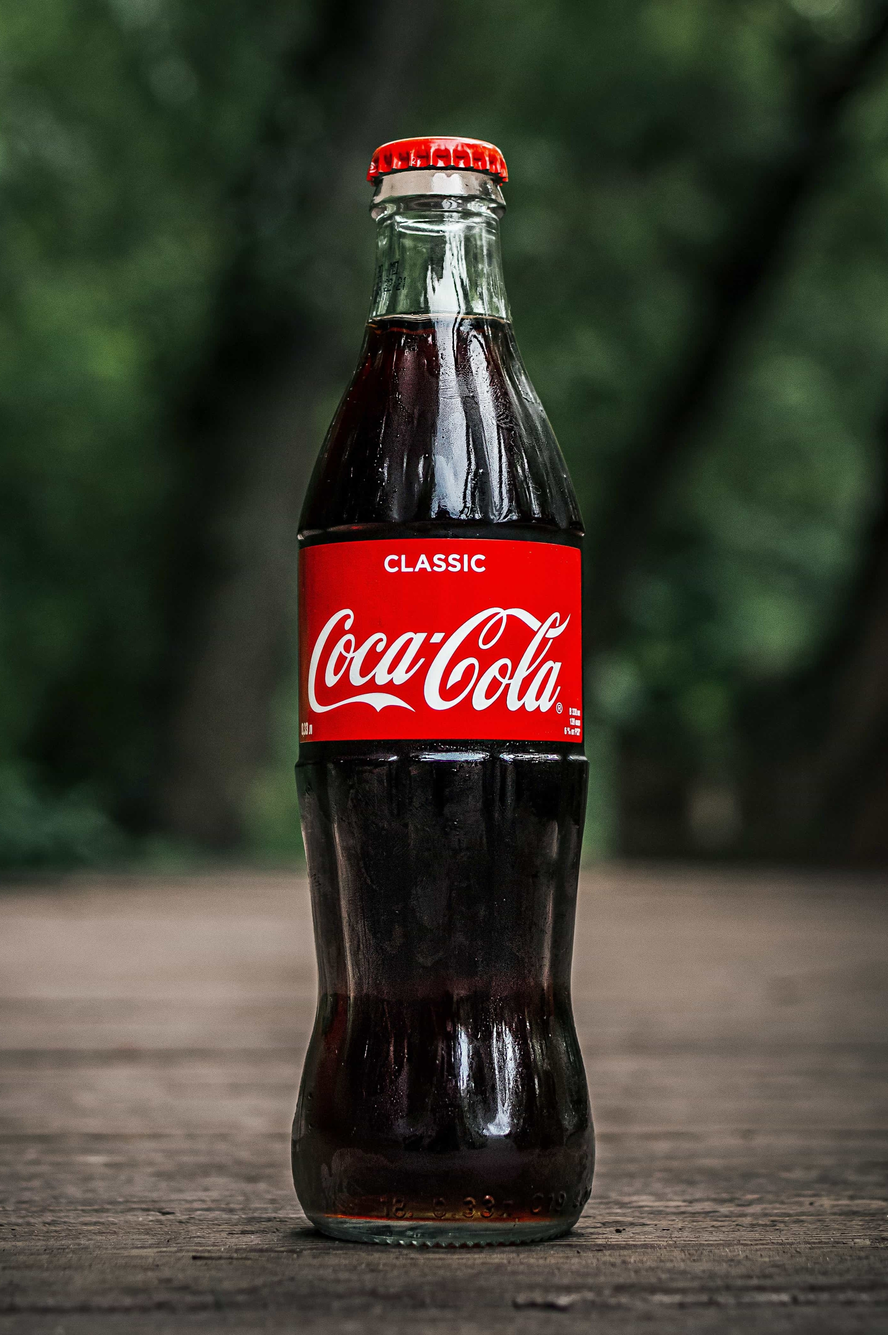
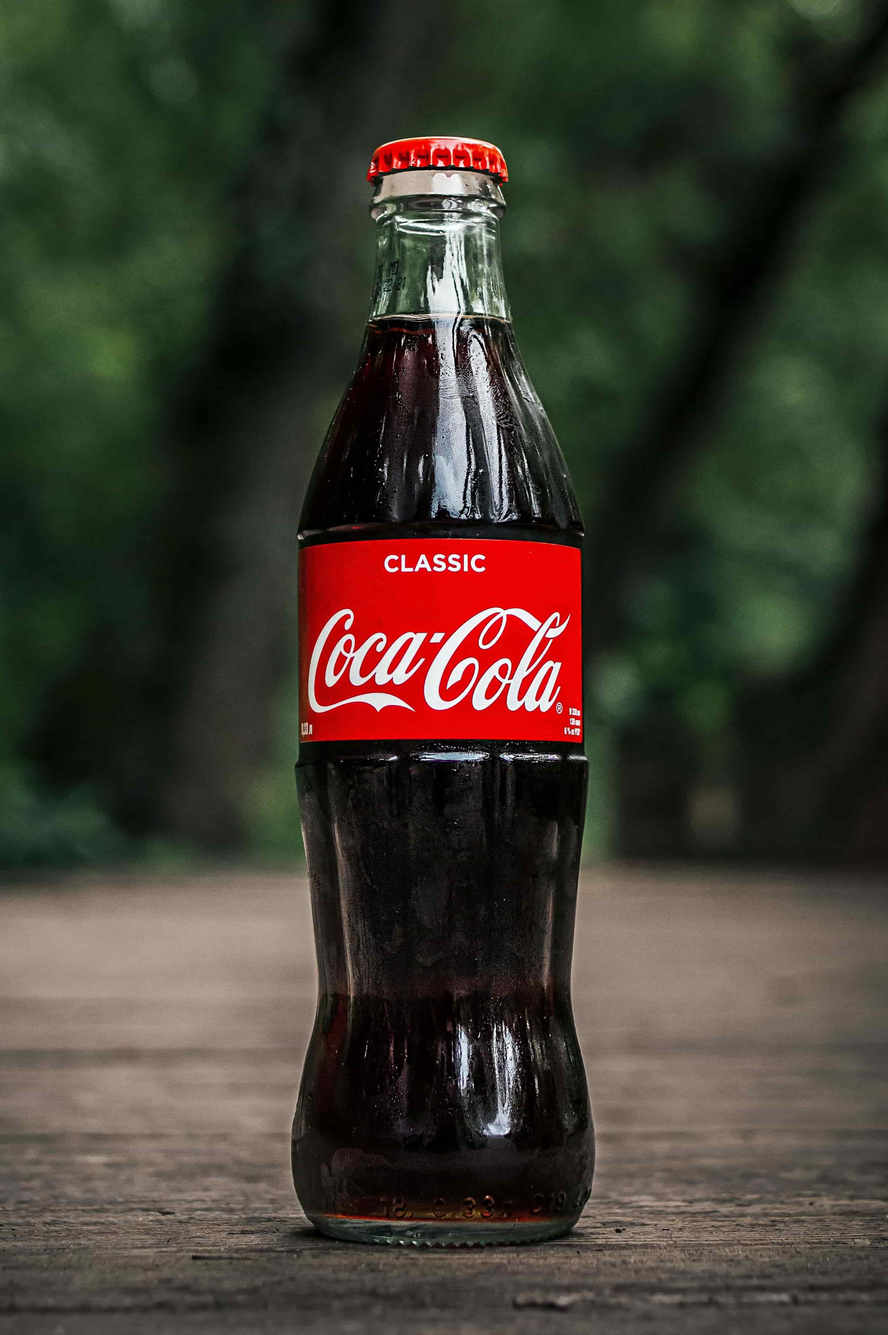
Se optimizaron aun mas las imagenes

Changed region(s): [[0.4977, 0.2494, 0.591, 0.3741], [0.5288, 0.7794, 0.591, 0.8417]]

diff --git a/index.html b/index.html
@@ -128,7 +128,7 @@
 
 
                         <img class="img-fluid img-thumbnail" style="max-height: 300px;"
-                            src="img/plate-basil-cherry-gourmet-menu.jpg" alt="">
+                            src="img/plate-basil-cherry-gourmet-menu-min.jpg" alt="">
 
                         <table class="table border caption-top">
                             <thead>
